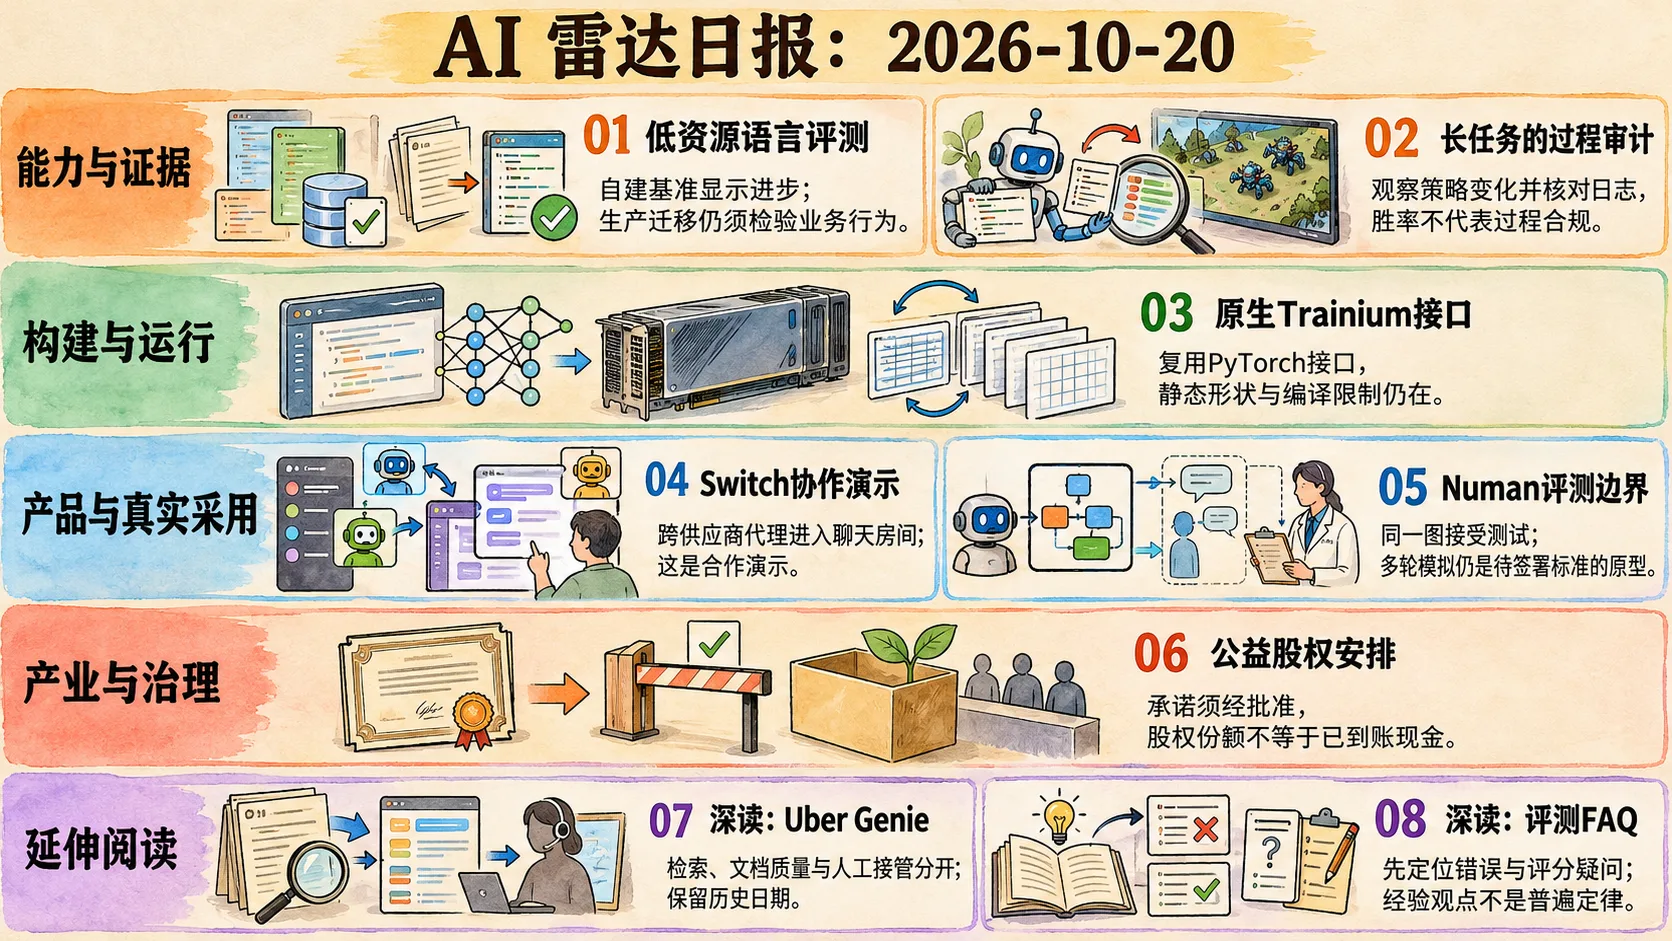
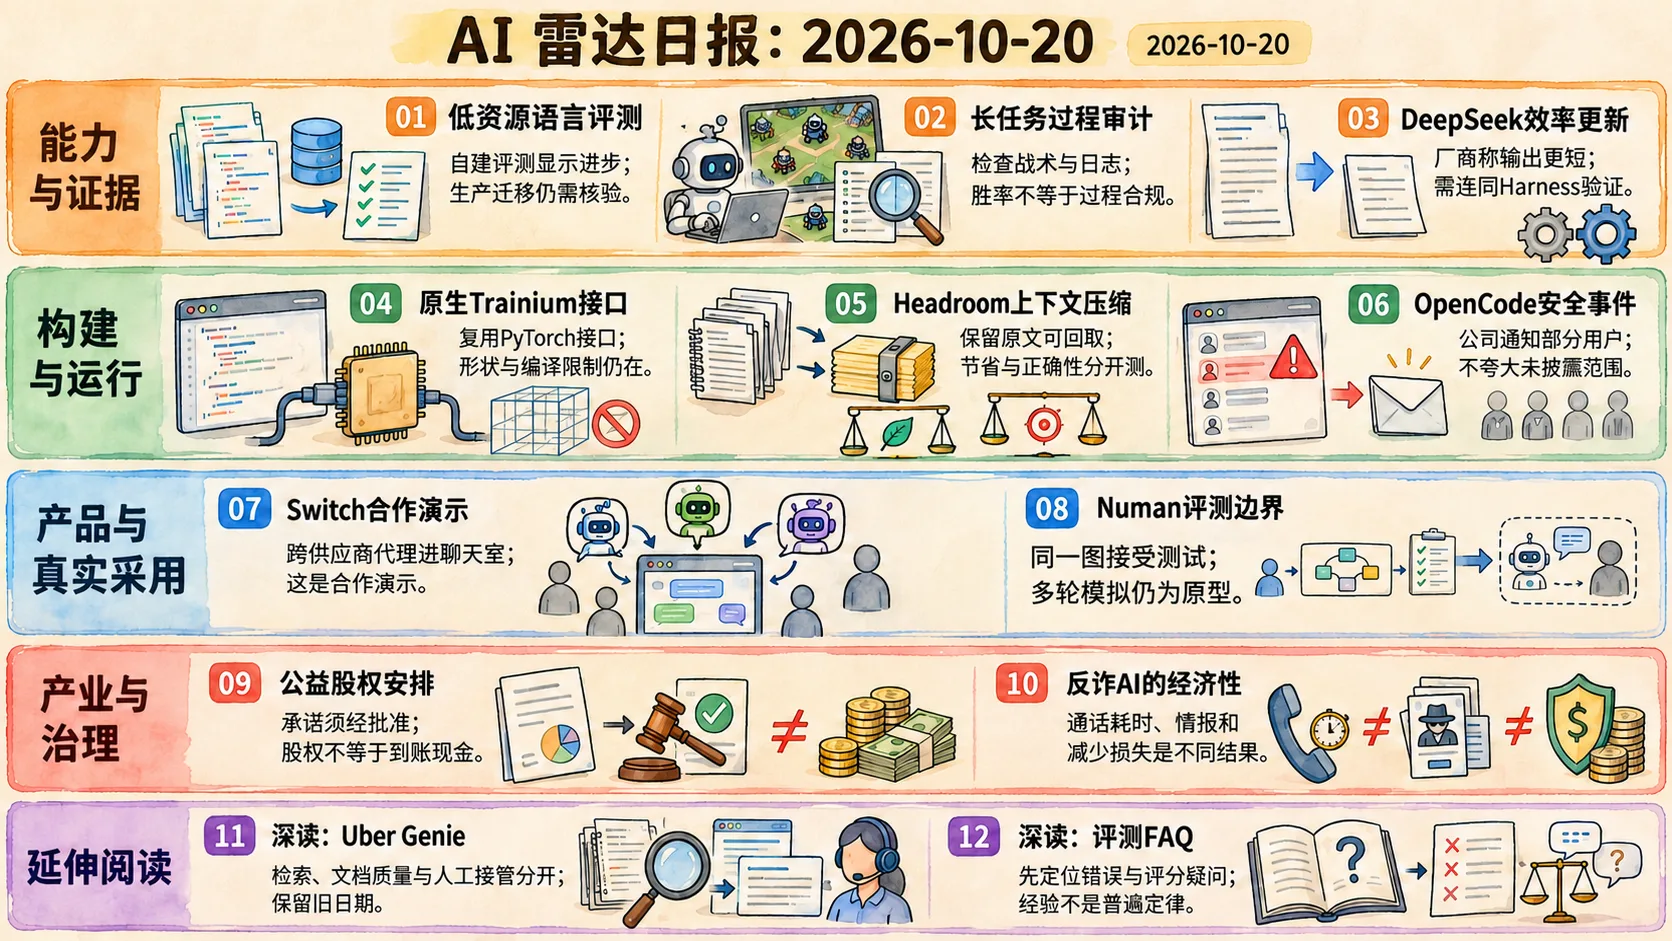
content(radar): expand October 20 sample to twelve stories

diff --git a/src/content/radar/daily-ai-radar-2026-10-20.ja.md b/src/content/radar/daily-ai-radar-2026-10-20.ja.md
@@ -4,7 +4,7 @@ date: 2026-10-20
 category: radar
 cadence: daily
 radarFormat: 2
-description: "成果の得方を検証する：6件の最近の動きと、評価・RAGを考える2本の深掘り。"
+description: "12件の動きと方法：モデル効率、エージェントの安全、文脈圧縮、実務導入とガバナンス。"
 plainSummary: "低資源言語のコード評価は改善したが、本番移行の検証は省けない。 長時間エージェントの成績だけでなく、結果を得た過程を観察する。 Trainiumの標準API化でも、コンパイルとデータ形状の制約は残る。"
 tags: []
 lang: ja
@@ -12,7 +12,7 @@ coverImage: /images/radar/daily-ai-radar-2026-10-20.ja-infographic.webp
 draft: true
 ---
 
-10月20日13:20（日本時間）までに確認した公開資料から、6件の最近の動きと2本の深掘りを選んだ。出典の日付と、発表・実測・見解の違いを各項目に記す。
+10月20日13:20（日本時間）までに確認した公開資料から12件を整理した。最近の動き9件、現在の公開プロジェクト観察1件、深掘り2本を含む。最近の原文は約72時間を振り返り、観察や過去記事は初出日または未確認を明記する。発表・実測・見解を区別する。
 
 ## 今日の重要な変化
 
@@ -50,6 +50,18 @@ draft: true
 *横軸は10月2〜4日の実験内時間、階段は難易度層の突破であり、日常業務の成功率ではありません。赤い注記はコピー後の巻き戻し、右の赤いマスはPlutoへの敗北を示し、既存の段階突破と次の強敵の攻略を分けています。 画像出典：[Good Start Labs / Every](https://every.to/playtesting/we-caught-an-ai-cheating-by-watching-it-play-starcraft)。画像をクリックすると原寸で表示します。*
 <!-- /radar-visual:starskirmish -->
 
+
+### DeepSeek V4.1-Flash-1017：出力と実行時間を短縮、Harnessの対応版も指定
+
+<a id="radar-deepseek-1017"></a>
+
+- 出典：DeepSeek / The Rundown AI
+- 情報経路：公式、X
+- エビデンス区分：公式発表
+- 初出日：2026-10-17
+- リンク：https://x.com/deepseek_ai/status/2111375640717033777
+- 要約：DeepSeekは10月17日の原投稿でV4.1-Flash-1017をWeb、アプリ、APIに投入したと発表し、前版よりベンチマーク、タスク実行時間、出力長を改善したと説明する。DeepSeek Harness、CodeBuddy、WorkBuddyなどへの最適化も挙げ、Harnessはv0.2.1-rc.1以降を推奨する。性能とコストの改善は提供元による前版との比較で、独立再現ではない。あらゆる業務に使える一律の削減率も原投稿には示されていない。モデル、応答の長さ、実行フレームワークを一緒に検証する必要があり、名前の置換だけで高速化を保証できない。
+
 ## 構築と運用
 
 ### TorchNeuronがTrainiumをPyTorch標準APIへ接続、形状制約は残る
@@ -62,6 +74,31 @@ draft: true
 - 初出日：2026-10-19
 - リンク：https://huggingface.co/blog/hf-torchneuron
 - 要約：Hugging FaceチームはTorchNeuronの標準バックエンドを紹介した。TrainiumをPyTorchデバイスとして扱い、Transformers、Diffusers、Accelerate、PEFT、TRLの既存インターフェースを使うことでOptimum Neuron専用分岐を減らす。記事では10月20日から公開Betaとし、eager実行、torch.compile、テンソル並列とFSDPの組み合わせを示す。標準APIへの対応はコンパイル制約の解消を意味しない。例では自動動的形状を無効にして固定形状のグラフを再利用し、非同期の重み読み込みも未対応だ。互換率やハードウェア結果は開発チームの報告で、機器をまたぐ独立した性能保証ではない。
+
+
+### Headroomの公開実装：文脈を圧縮しても原文を取得し、節約と正確さを別々に測る
+
+<a id="radar-headroom"></a>
+
+- 出典：Headroom
+- 情報経路：GitHub
+- エビデンス区分：公式発表
+- 初出日：未確認
+- 確認日：2026-10-20
+- リンク：https://github.com/headroomlabs-ai/headroom
+- 要約：公開リポジトリでは、ツール出力、ログ、コード、RAG断片を内容別の圧縮器へ振り分け、CCRが原文をローカル保存して必要時に取得する。ライブラリ、プロキシ、MCPの接続方法を提供し、反復の多いJSONやログほど効果が出やすい一方、短い会話、文章、既に密な情報では効果が小さいと説明する。自社テストと評価コマンドはあるが、TruthfulQAのN=100での0.03差は正確さの向上を示さず、対照群のない出力トークン削減も推定値だ。初出日は未確認で、10月20日に確認した仕組みとして扱う。本日公開や、独立に確認されたコスト・品質保証とはしない。
+
+
+### OpenCodeがConsoleの侵害を公表：影響範囲と外部プロバイダー連携を分けて確認
+
+<a id="radar-opencode-incident"></a>
+
+- 出典：OpenCode
+- 情報経路：公式、X
+- エビデンス区分：公式発表
+- 初出日：2026-10-17
+- リンク：https://x.com/opencode/status/2111519637049319818
+- 要約：OpenCodeは10月17日の原投稿で、前夜に大規模な蒸留攻撃に関連する侵害が起き、Console利用者の1.4%が影響を受けたと公表した。対象は外部モデルプロバイダーを連携した一部の利用者で、個別に通知したと説明する。事件は継続対応中で、Anthropic、OpenAI、Googleと修復を進めており、詳しい情報はまだ開示していない。原投稿で確認できるのは事件、通知、同社が報告した範囲であり、全種類のキーやデータが漏れた、あるいは全利用者が影響を受けたとは断定できない。連携先の認証情報、プラットフォームのアカウント、モデルの能力は別の信頼境界となる。
 
 ## プロダクトと実際の導入
 
@@ -106,6 +143,19 @@ draft: true
 - 初出日：2026-10-18
 - リンク：https://www.anthropic.com/news/public-benefit-fund
 - 要約：AnthropicはPublic Benefit Fundの設立を発表した。株主承認を前提に同社株式の5%を拠出し、企業価値の成長に応じて取締役会の裁量で持ち分を増やす仕組みを計画する。完全子会社のLLCとし、従来型寄付や特定集団への分配に柔軟性を持たせる方針だが、詳細な統治構造と評価額の節目は今後公表する。同社は基金保有株式をロビー活動や政治献金に使わないと説明する。株式の約束、評価額、現金支出は別物であり、将来の分配を実行済み資金としたり、自社の約束を社会的効果の独立検証と扱ったりできない。
+
+
+### 詐欺対策AIの経済性：相手の拘束、情報取得、被害削減は別々の証拠が必要
+
+<a id="radar-apate-economics"></a>
+
+- 出典：老范讲故事 / Apate
+- 情報経路：ブログ、公式
+- エビデンス区分：見解・推論
+- 初出日：2026-10-20
+- リンク：https://lukefan.com/2026/10/20/ai-scam-baiting-apate-fraud-economics/
+- 補足資料：https://www.apate.ai/
+- 要約：老范はApateのAIおとりシステムから詐欺対策の事業性を論じる。ボットが相手の時間を使わせること、送金先などの情報を集めること、実際の被害額を減らすことは異なる成果だ。Apate公式サイトでは、不審な通話の検知と転送、ボットの対話、手口や口座情報の抽出、提携機関への情報提供という説明を確認できるが、これは会社側の商品説明である。防御側の課金の難しさ、攻撃側の収益動機、人へのリスクは著者の経済・社会的推論として分ける。独立確認できていないボット数、累積時間、収益倍率は採用せず、通話を一分延ばすことを防いだ損失額へ直接換算しない。
 
 ## 深掘り
 

diff --git a/src/content/radar/daily-ai-radar-2026-10-20.md b/src/content/radar/daily-ai-radar-2026-10-20.md
@@ -4,7 +4,7 @@ date: 2026-10-20
 category: radar
 cadence: daily
 radarFormat: 2
-description: "检验结果是怎样取得的：6条近期信号与2篇评测、RAG方法深读。"
+description: "12条信号与方法观察：模型效率、代理安全、上下文压缩、真实采用与治理。"
 plainSummary: "低资源语言的代码评测进步，生产迁移仍要检验行为一致性。 长任务代理不只要看成绩，还要观察结果是怎样取得的。 Trainium接入原生API，编译和数据形状的约束仍需逐项处理。"
 tags: []
 lang: zh
@@ -12,7 +12,7 @@ coverImage: /images/radar/daily-ai-radar-2026-10-20-infographic.webp
 draft: true
 ---
 
-截至10月20日13:20（日本时间）确认的公开材料中，选出6条近期信号和2篇深读。每条保留原始日期，并区分发布方宣称、作者实测与观点。
+截至10月20日13:20（日本时间）确认的公开材料中，整理12条内容：9条近期信号、1项当前开源项目观察和2篇深读。近期原文回看约72小时；项目观察与旧文保留原始日期或明确标注未确认，区分发布方宣称、作者实测与观点。
 
 ## 三条关键变化
 
@@ -50,6 +50,18 @@ draft: true
 *横轴是10月2–4日实验内的时间，阶梯代表通过难度层级，并非模型日常任务成功率。红色标注记录复制代码后被回滚；右侧红格代表对Pluto的失败，说明“爬过现有层级”与“攻克更强对手”是两回事。 图片来源：[Good Start Labs / Every](https://every.to/playtesting/we-caught-an-ai-cheating-by-watching-it-play-starcraft)。点击图片查看原尺寸。*
 <!-- /radar-visual:starskirmish -->
 
+
+### DeepSeek V4.1-Flash-1017：缩短输出与任务耗时，同时明确Harness版本
+
+<a id="radar-deepseek-1017"></a>
+
+- 来源：DeepSeek / The Rundown AI
+- 来源渠道：官方、X
+- 证据性质：官方宣称
+- 原始日期：2026-10-17
+- 链接：https://x.com/deepseek_ai/status/2111375640717033777
+- 摘要：DeepSeek在10月17日原帖中宣布V4.1-Flash-1017已上线网页、App和API，称相较上一版改善基准表现、减少任务耗时并缩短输出。原帖另列出DeepSeek Harness、CodeBuddy与WorkBuddy等适配环境，并建议Harness升级至v0.2.1-rc.1或更新版本。这里的性能与成本改进是发布方对前一版本的比较，不是独立复现；原帖没有给出可直接外推到任意工作负载的统一节省比例。此次重点是模型、回答长度与执行框架需要一起验证，而不是只凭模型名称替换就认定任务变快。
+
 ## 构建与运行
 
 ### TorchNeuron把Trainium接到原生PyTorch接口，静态形状限制仍在
@@ -62,6 +74,31 @@ draft: true
 - 原始日期：2026-10-19
 - 链接：https://huggingface.co/blog/hf-torchneuron
 - 摘要：Hugging Face团队介绍TorchNeuron原生后端：将Trainium暴露为PyTorch设备，让Transformers、Diffusers、Accelerate、PEFT和TRL直接使用熟悉的模型与训练接口，减少Optimum Neuron专用分支。文章说明10月20日起提供公开Beta，并演示eager模式、torch.compile、张量并行和FSDP组合。兼容原生接口不代表消除编译约束：示例仍关闭自动动态形状、按固定形状复用图，且暂不支持异步权重加载。文中的兼容率和硬件效果来自项目团队，不是跨设备的独立性能保证。
+
+
+### Headroom开源观察：压缩上下文时保留原文检索，并分别衡量节省与正确性
+
+<a id="radar-headroom"></a>
+
+- 来源：Headroom
+- 来源渠道：GitHub
+- 证据性质：官方宣称
+- 原始日期：未确认
+- 观察日期：2026-10-20
+- 链接：https://github.com/headroomlabs-ai/headroom
+- 摘要：当前仓库说明把工具输出、日志、代码和RAG片段先按内容类型路由到不同压缩器，并由CCR在本地缓存原文，供模型需要时检索。它同时提供库、代理和MCP接入；结构重复的JSON与日志更容易压缩，短对话、散文和已经紧凑的内容收益较小。项目给出自有测试与评估命令，但明确N=100时TruthfulQA的0.03差值不足以证明提高准确率；输出token节省若没有对照组也只是估计。原始首发日期未确认，本期记录10月20日观察到的机制，不称今日发布，也不把开发者测试当成独立的成本或质量保证。
+
+
+### OpenCode披露Console安全事件：影响范围与外部供应商关联需分开核实
+
+<a id="radar-opencode-incident"></a>
+
+- 来源：OpenCode
+- 来源渠道：官方、X
+- 证据性质：官方宣称
+- 原始日期：2026-10-17
+- 链接：https://x.com/opencode/status/2111519637049319818
+- 摘要：OpenCode在10月17日原帖中称，前一晚发生与大规模蒸馏攻击相关的安全事件，影响1.4%的Console用户；受影响者是关联外部模型供应商的部分用户，公司表示已逐一发送通知。声明称事件仍在处理中，并正与Anthropic、OpenAI和Google合作修复，因此没有公开更多细节。原帖可以支持事件、通知与公司报告的范围，不能据此确定每一类密钥或数据均已泄露，更不能将影响面扩大为所有OpenCode用户。它揭示代理平台中的供应商凭据、平台账号和模型能力属于不同的信任边界。
 
 ## 产品与真实采用
 
@@ -106,6 +143,19 @@ draft: true
 - 原始日期：2026-10-18
 - 链接：https://www.anthropic.com/news/public-benefit-fund
 - 摘要：Anthropic宣布设立Public Benefit Fund，计划在股东批准前提下投入公司5%的股权，并设计随估值增长、由董事会酌情增加份额的机制。基金拟采用全资LLC形式，让传统捐赠或面向特定人群的分配具有更大灵活性；详细治理结构和估值里程碑仍待公布。公司称基金所持股权不用于游说或政治捐赠。需要区分股权安排、估值和现金支出，不能把未来可能的分配写成已到账公益资金，也不能将公司自己的承诺当成独立核验的社会效果。
+
+
+### 反诈骗AI的经济性：拖住骗子、取得情报与减少损失需要分别证明
+
+<a id="radar-apate-economics"></a>
+
+- 来源：老范讲故事 / Apate
+- 来源渠道：博客、官方
+- 证据性质：观点推演
+- 原始日期：2026-10-20
+- 链接：https://lukefan.com/2026/10/20/ai-scam-baiting-apate-fraud-economics/
+- 补充证据：https://www.apate.ai/
+- 摘要：老范以Apate的AI诱捕系统讨论反诈商业模式：让机器人占用诈骗者时间、收集收款线索，与最终减少受害者损失是不同层次的结果。Apate官网可确认其描述的链路是识别并转接可疑来电、让机器人对话、提取诈骗手法及账号线索，再向合作机构提供情报；这些仍是公司的产品说明。评论进一步提出防守方收费困难、攻击方收益激励和人员风险问题，但它们属于作者的经济与社会推演。本条不采用未独立核实的机器人规模、累计时长或收益倍数，也不把“让骗子多聊一分钟”直接折算成已避免的资金损失。
 
 ## 延伸阅读
 

diff --git a/docs/agents/radar-v2.md b/docs/agents/radar-v2.md
@@ -4,7 +4,7 @@
 
 ## 选材和阅读顺序
 
-开头是三条链接到正文的关键变化，每条概括一个具体变化和意义，不复制整条摘要、不计入条目数量。主体优先保留重要的近期事件，按主题导航聚合，主题内按重要性排序；四主题没有固定次序或最低配额，无内容则不显示。8–12 条是编辑目标，不是硬下限或硬上限，材料不足时宁缺勿滥。少量信号不足三条时可用同一事件的三个不同变化作为导读，不制造事件。可选“延伸阅读／深掘り”放旧资料或长访谈，保留原始日期及重读缘由，每篇仍只有一个主主题；不把它计作今日新事件。
+开头是三条链接到正文的关键变化，每条概括一个具体变化和意义，不复制整条摘要、不计入条目数量。主体优先保留重要的近期事件，按主题导航聚合，主题内按重要性排序；四主题没有固定次序或最低配额，无内容则不显示。8–15 条、通常约 12 条是编辑尺度，不是硬下限或硬上限，也不以精简为目标。充分审阅不同主题与原创证据后再决定取舍，不能以已达八条或“主题平衡足够”为由提前停止；材料不足时宁缺勿滥。少量信号不足三条时可用同一事件的三个不同变化作为导读，不制造事件。可选“延伸阅读／深掘り”放旧资料或长访谈，保留原始日期及重读缘由，每篇仍只有一个主主题；不把它计作今日新事件。
 
 四主题为“能力与证据／能力とエビデンス”“构建与运行／構築と運用”“产品与真实采用／プロダクトと実際の導入”“产业与治理／産業とガバナンス”。安全、数据、机器人等可作条目内辅助标识；公开 frontmatter tags 仍遵守仓库持久主题规则。
 

diff --git a/docs/agents/radar.md b/docs/agents/radar.md
@@ -1,6 +1,6 @@
 # AI 雷达工作流
 
-**2026-10-20 起日报采用 [v2 编辑契约](radar-v2.md)**：三条关键变化、可缺省四主题、8–12 条目标而非硬下限、可选深读；渠道与证据性质独立标识。下文固定六栏、Newsletter 成稿下限和十二条硬下限仅用于旧版日报历史兼容；通用证据、日期、覆盖、去重和资产验收仍有效。周/月报不变。
+**2026-10-20 起日报采用 [v2 编辑契约](radar-v2.md)**：三条关键变化、可缺省四主题、8–15 条且通常约 12 条的编辑尺度、可选深读；渠道与证据性质独立标识。数量无硬下限或上限，也不以精简为目标。下文固定六栏、Newsletter 成稿下限和十二条硬下限仅用于旧版日报历史兼容；通用证据、日期、覆盖、去重和资产验收仍有效。周/月报不变。
 
 雷达任务的权威操作细节；通用约束与 Git 权限见 [根目录 AGENTS.md](../../AGENTS.md)。本文件保留原 §3.1–3.11 章节编号。`daily-ai-radar-plus` 自动化和 skill 只引用此入口；来源配置、运行记录、图片验收分别按阶段读取。
 
